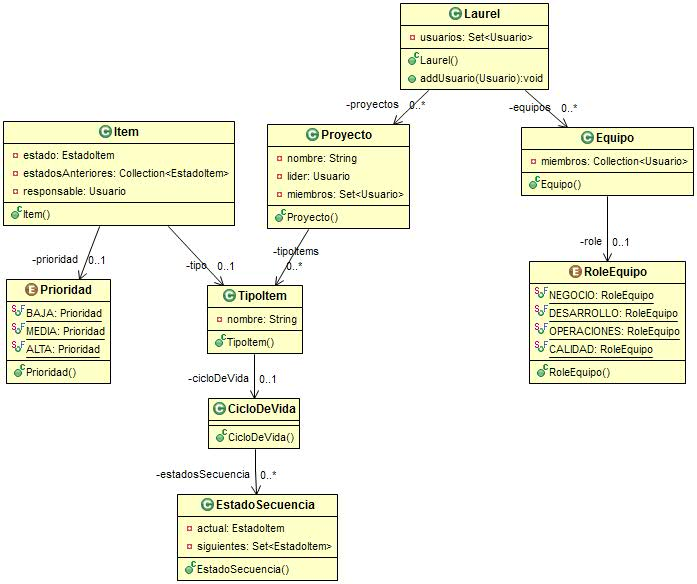
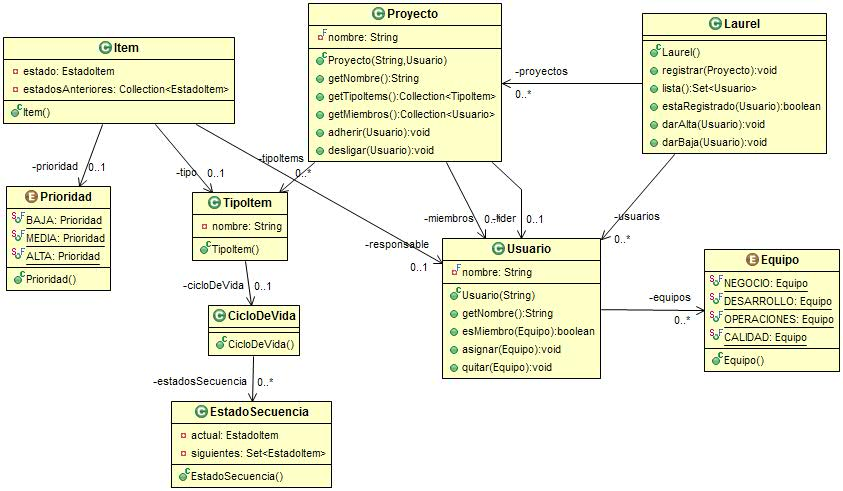
Alta de usuarios: Dominio

diff --git a/laurel/src/main/java/edu/laurel/Laurel.java b/laurel/src/main/java/edu/laurel/Laurel.java
@@ -1,27 +1,32 @@
 package edu.laurel;
 
-import java.util.HashSet;
 
 public class Laurel {
 	private java.util.Set<Usuario> usuarios;
 	private java.util.Collection<Proyecto> proyectos;
-	private java.util.Collection<Equipo> equipos;
 	
-	public java.util.Set<Usuario> getUsuarios() {
-		if(usuarios==null)
-			usuarios = new HashSet<Usuario>();
+	public Laurel() {
+		usuarios = new java.util.HashSet<Usuario>();
+		proyectos = new java.util.ArrayList<Proyecto>(5);
+	}
+	
+	public void registrar(Proyecto proyecto){
+		proyectos.add(proyecto);
+	}
+	
+	public java.util.Set<Usuario> lista() {
 		return usuarios;
 	}
 	
-	public boolean exist(Usuario usuario) {
-		return getUsuarios().contains(usuario);
+	public boolean estaRegistrado(Usuario usuario) {
+		return usuarios.contains(usuario);
 	}
 
-	public void addUsuario(Usuario  usuario) {
-		getUsuarios().add(usuario);
+	public void darAlta(Usuario  usuario) {
+		usuarios.add(usuario);
 	}
 
-	public void removeUsuario(Usuario usuario) {
-		getUsuarios().remove(usuario);
+	public void darBaja(Usuario usuario) {
+		usuarios.remove(usuario);
 	}
 }

diff --git a/laurel/src/main/java/edu/laurel/Proyecto.java b/laurel/src/main/java/edu/laurel/Proyecto.java
@@ -1,9 +1,36 @@
 package edu.laurel;
 
 public class Proyecto {
-	private String nombre;
-	private java.util.Set<TipoItem> tipoItems;
-	
-	private Usuario lider;
-	private java.util.Set<Usuario> miembros;
+	private final String nombre;
+	private final java.util.Collection<TipoItem> tipoItems;
+
+	private final Usuario lider;
+	private final java.util.Collection<Usuario> miembros;
+
+	public Proyecto(final String nombre, final Usuario lider) {
+		this.nombre = nombre;
+		this.lider = lider;
+		miembros = new java.util.ArrayList<Usuario>();
+		tipoItems =  new java.util.HashSet<TipoItem>();
+	}
+
+	public String getNombre() {
+		return nombre;
+	}
+
+	public java.util.Collection<TipoItem> getTipoItems() {
+		return tipoItems;
+	}
+
+	public java.util.Collection<Usuario> getMiembros() {
+		return miembros;
+	}
+
+	public void adherir(final Usuario usuario) {
+		miembros.add(usuario);
+	}
+
+	public void desligar(final Usuario usuario) {
+		miembros.remove(usuario);
+	}
 }

diff --git a/laurel/src/test/java/edu/laurel/LaurelTest.java b/laurel/src/test/java/edu/laurel/LaurelTest.java
@@ -1,6 +1,7 @@
 package edu.laurel;
 
-import static org.junit.Assert.*;
+import static org.junit.Assert.assertFalse;
+import static org.junit.Assert.assertTrue;
 
 import org.junit.After;
 import org.junit.Before;
@@ -22,12 +23,15 @@ public class LaurelTest {
 
 	@Test
 	public void testAltaUsuario() {
-		Usuario usuario = new Usuario("Usuario Prueba");
+		final Usuario usuario = new Usuario("Usuario Prueba");
+		usuario.asignar(Equipo.CALIDAD);
 
-		laurel.addUsuario(usuario);
-		assertTrue(laurel.exist(usuario));
+		laurel.darAlta(usuario);
+		assertTrue(laurel.estaRegistrado(usuario));
+		assertTrue(usuario.esMiembro(Equipo.CALIDAD));
+		assertFalse(usuario.esMiembro(Equipo.OPERACIONES));
 
-		laurel.removeUsuario(usuario);
-		assertFalse(laurel.exist(usuario));
+		laurel.darBaja(usuario);
+		assertFalse(laurel.estaRegistrado(usuario));
 	}
 }

diff --git a/laurel/src/main/java/edu/laurel/Usuario.java b/laurel/src/main/java/edu/laurel/Usuario.java
@@ -1,17 +1,27 @@
 package edu.laurel;
 
 public class Usuario {
-	private String nombre;
+	private final String nombre;
+	private final java.util.Set<Equipo> equipos;
 
-	public Usuario(String nombre) {
-		this.setNombre(nombre);
+	public Usuario(final String nombre) {
+		this.nombre = nombre;
+		equipos = new java.util.HashSet<Equipo>(5);
 	}
 
 	public String getNombre() {
 		return nombre;
 	}
 
-	public void setNombre(String nombre) {
-		this.nombre = nombre;
+	public boolean esMiembro(final Equipo equipo) {
+		return equipos.contains(equipo);
+	}
+
+	public void asignar(final Equipo equipo) {
+		equipos.add(equipo);
+	}
+
+	public void quitar(final Equipo equipo) {
+		equipos.remove(equipo);
 	}
 }

diff --git a/laurel/src/main/java/edu/laurel/Equipo.java b/laurel/src/main/java/edu/laurel/Equipo.java
@@ -1,6 +1,5 @@
 package edu.laurel;
 
-public class Equipo {
-	private RoleEquipo role;
-	private java.util.Collection<Usuario> miembros;
+public enum Equipo {
+	NEGOCIO, DESARROLLO, OPERACIONES, CALIDAD
 }
